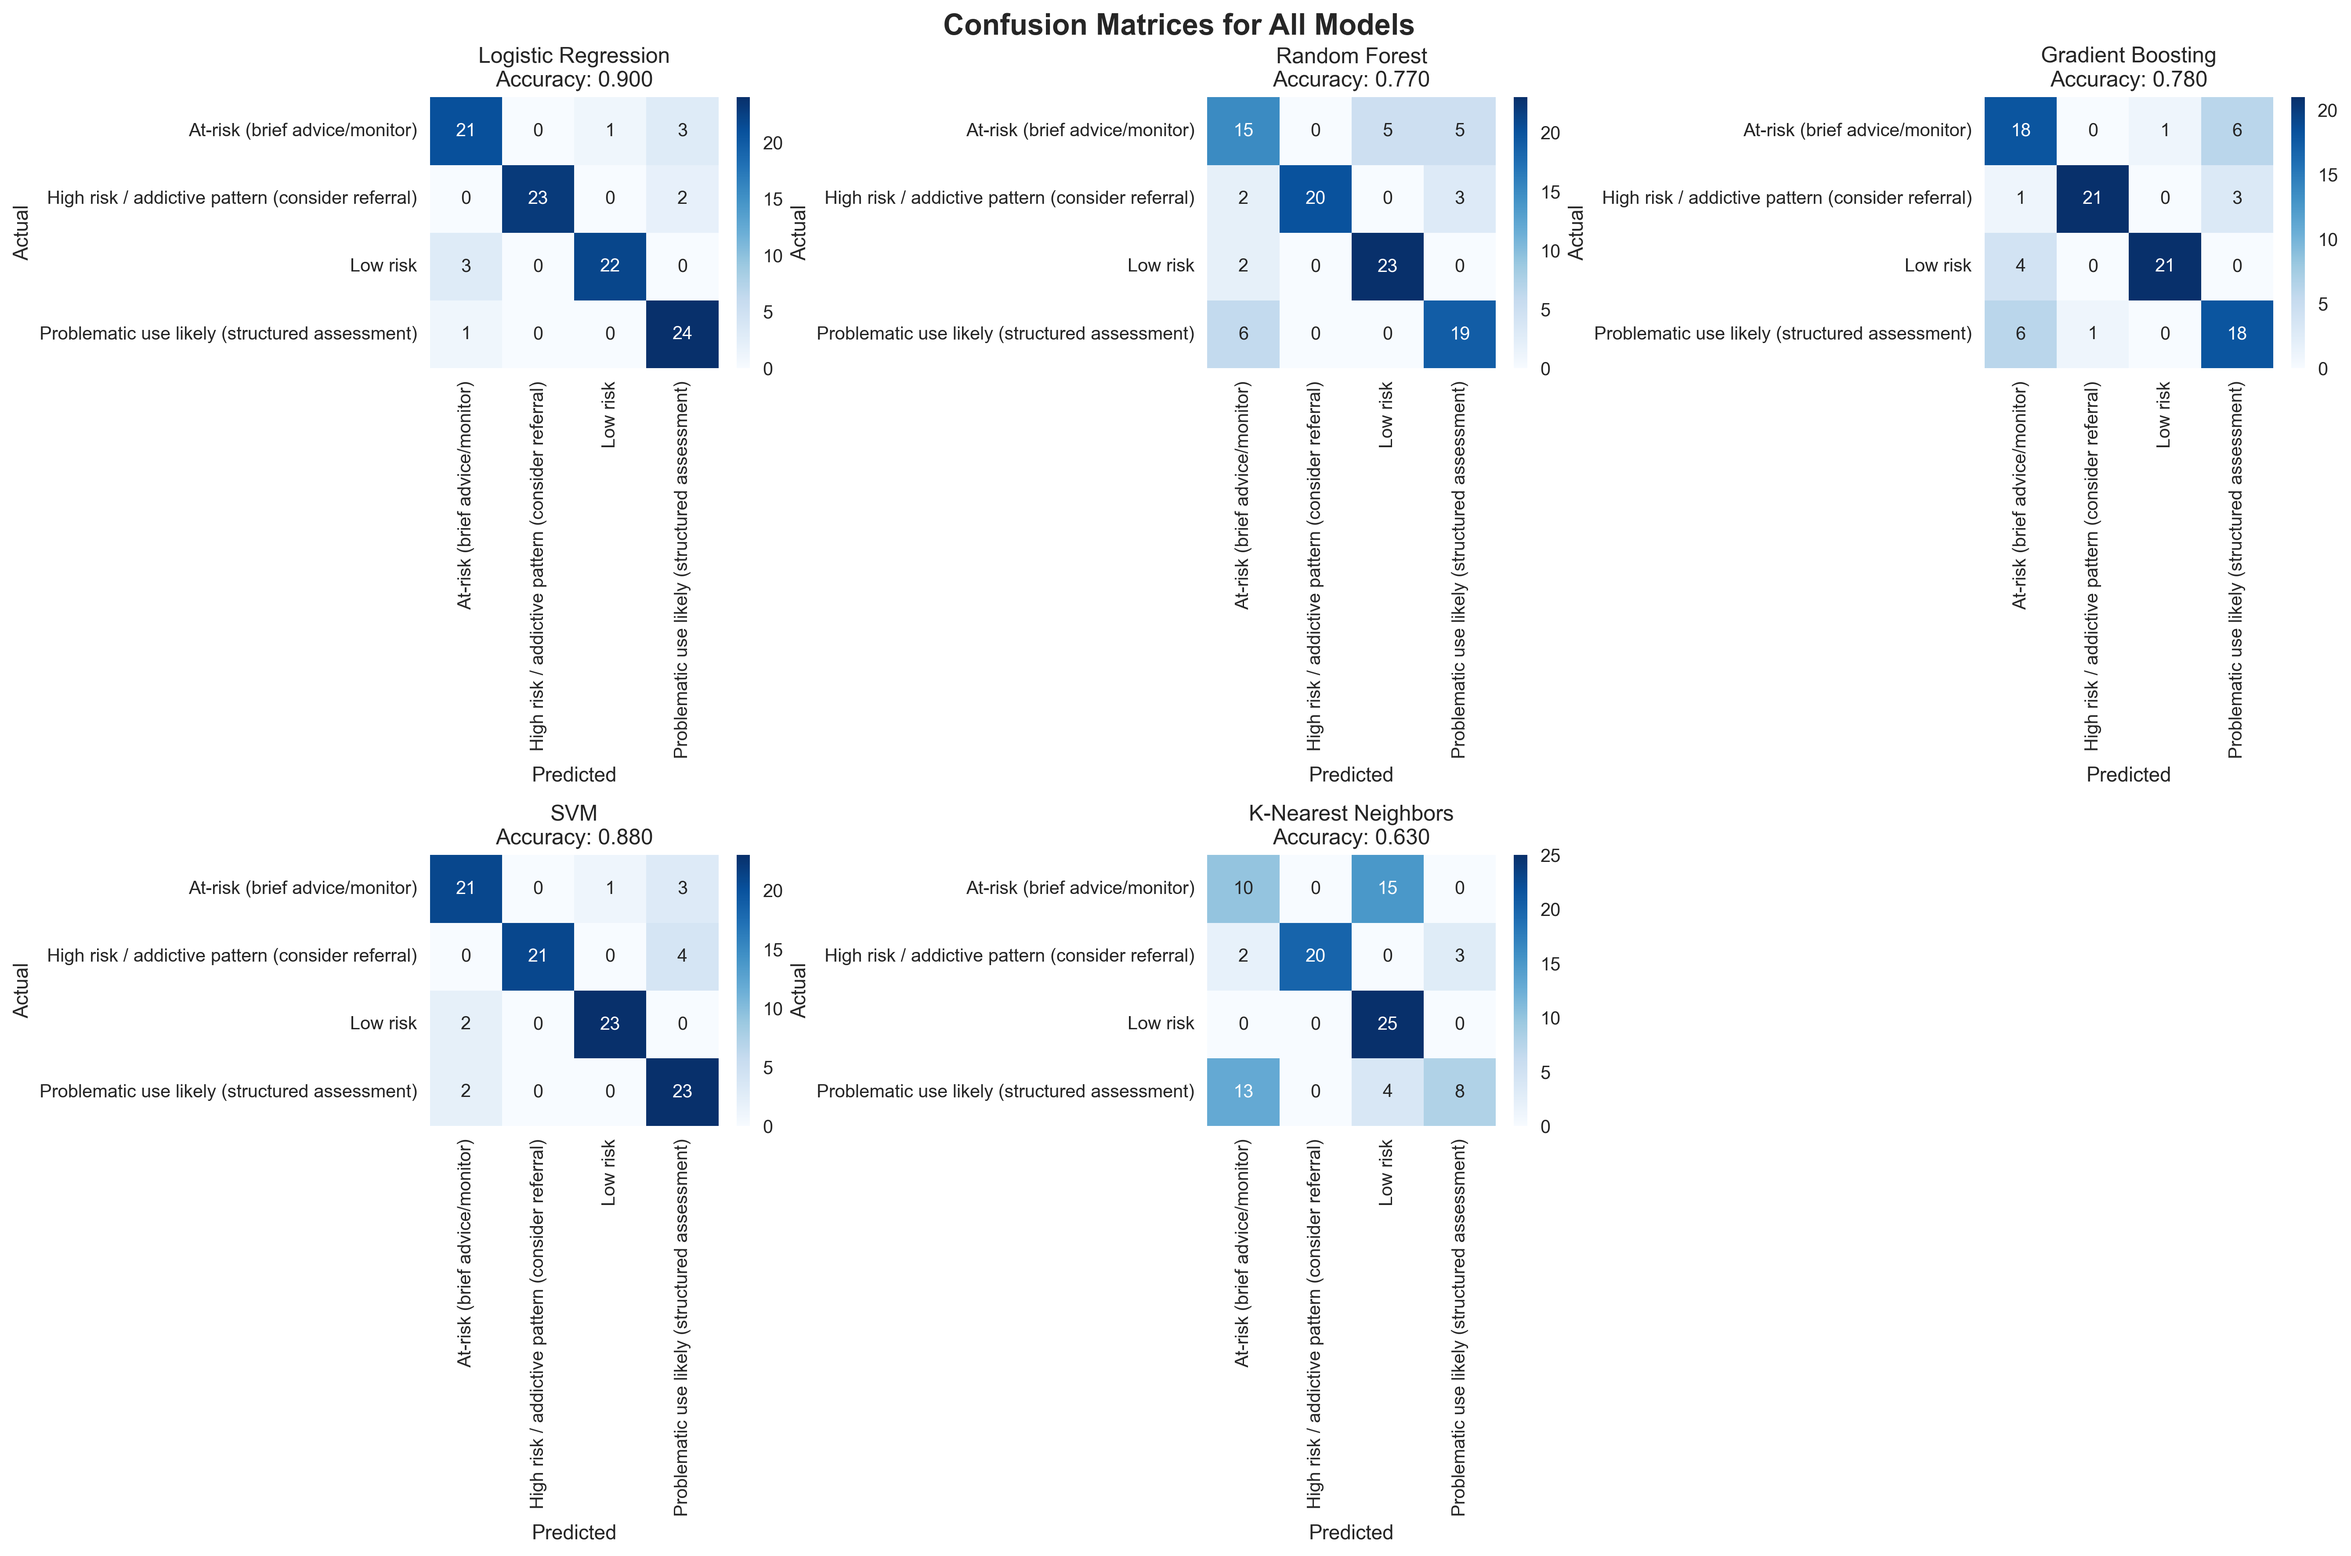
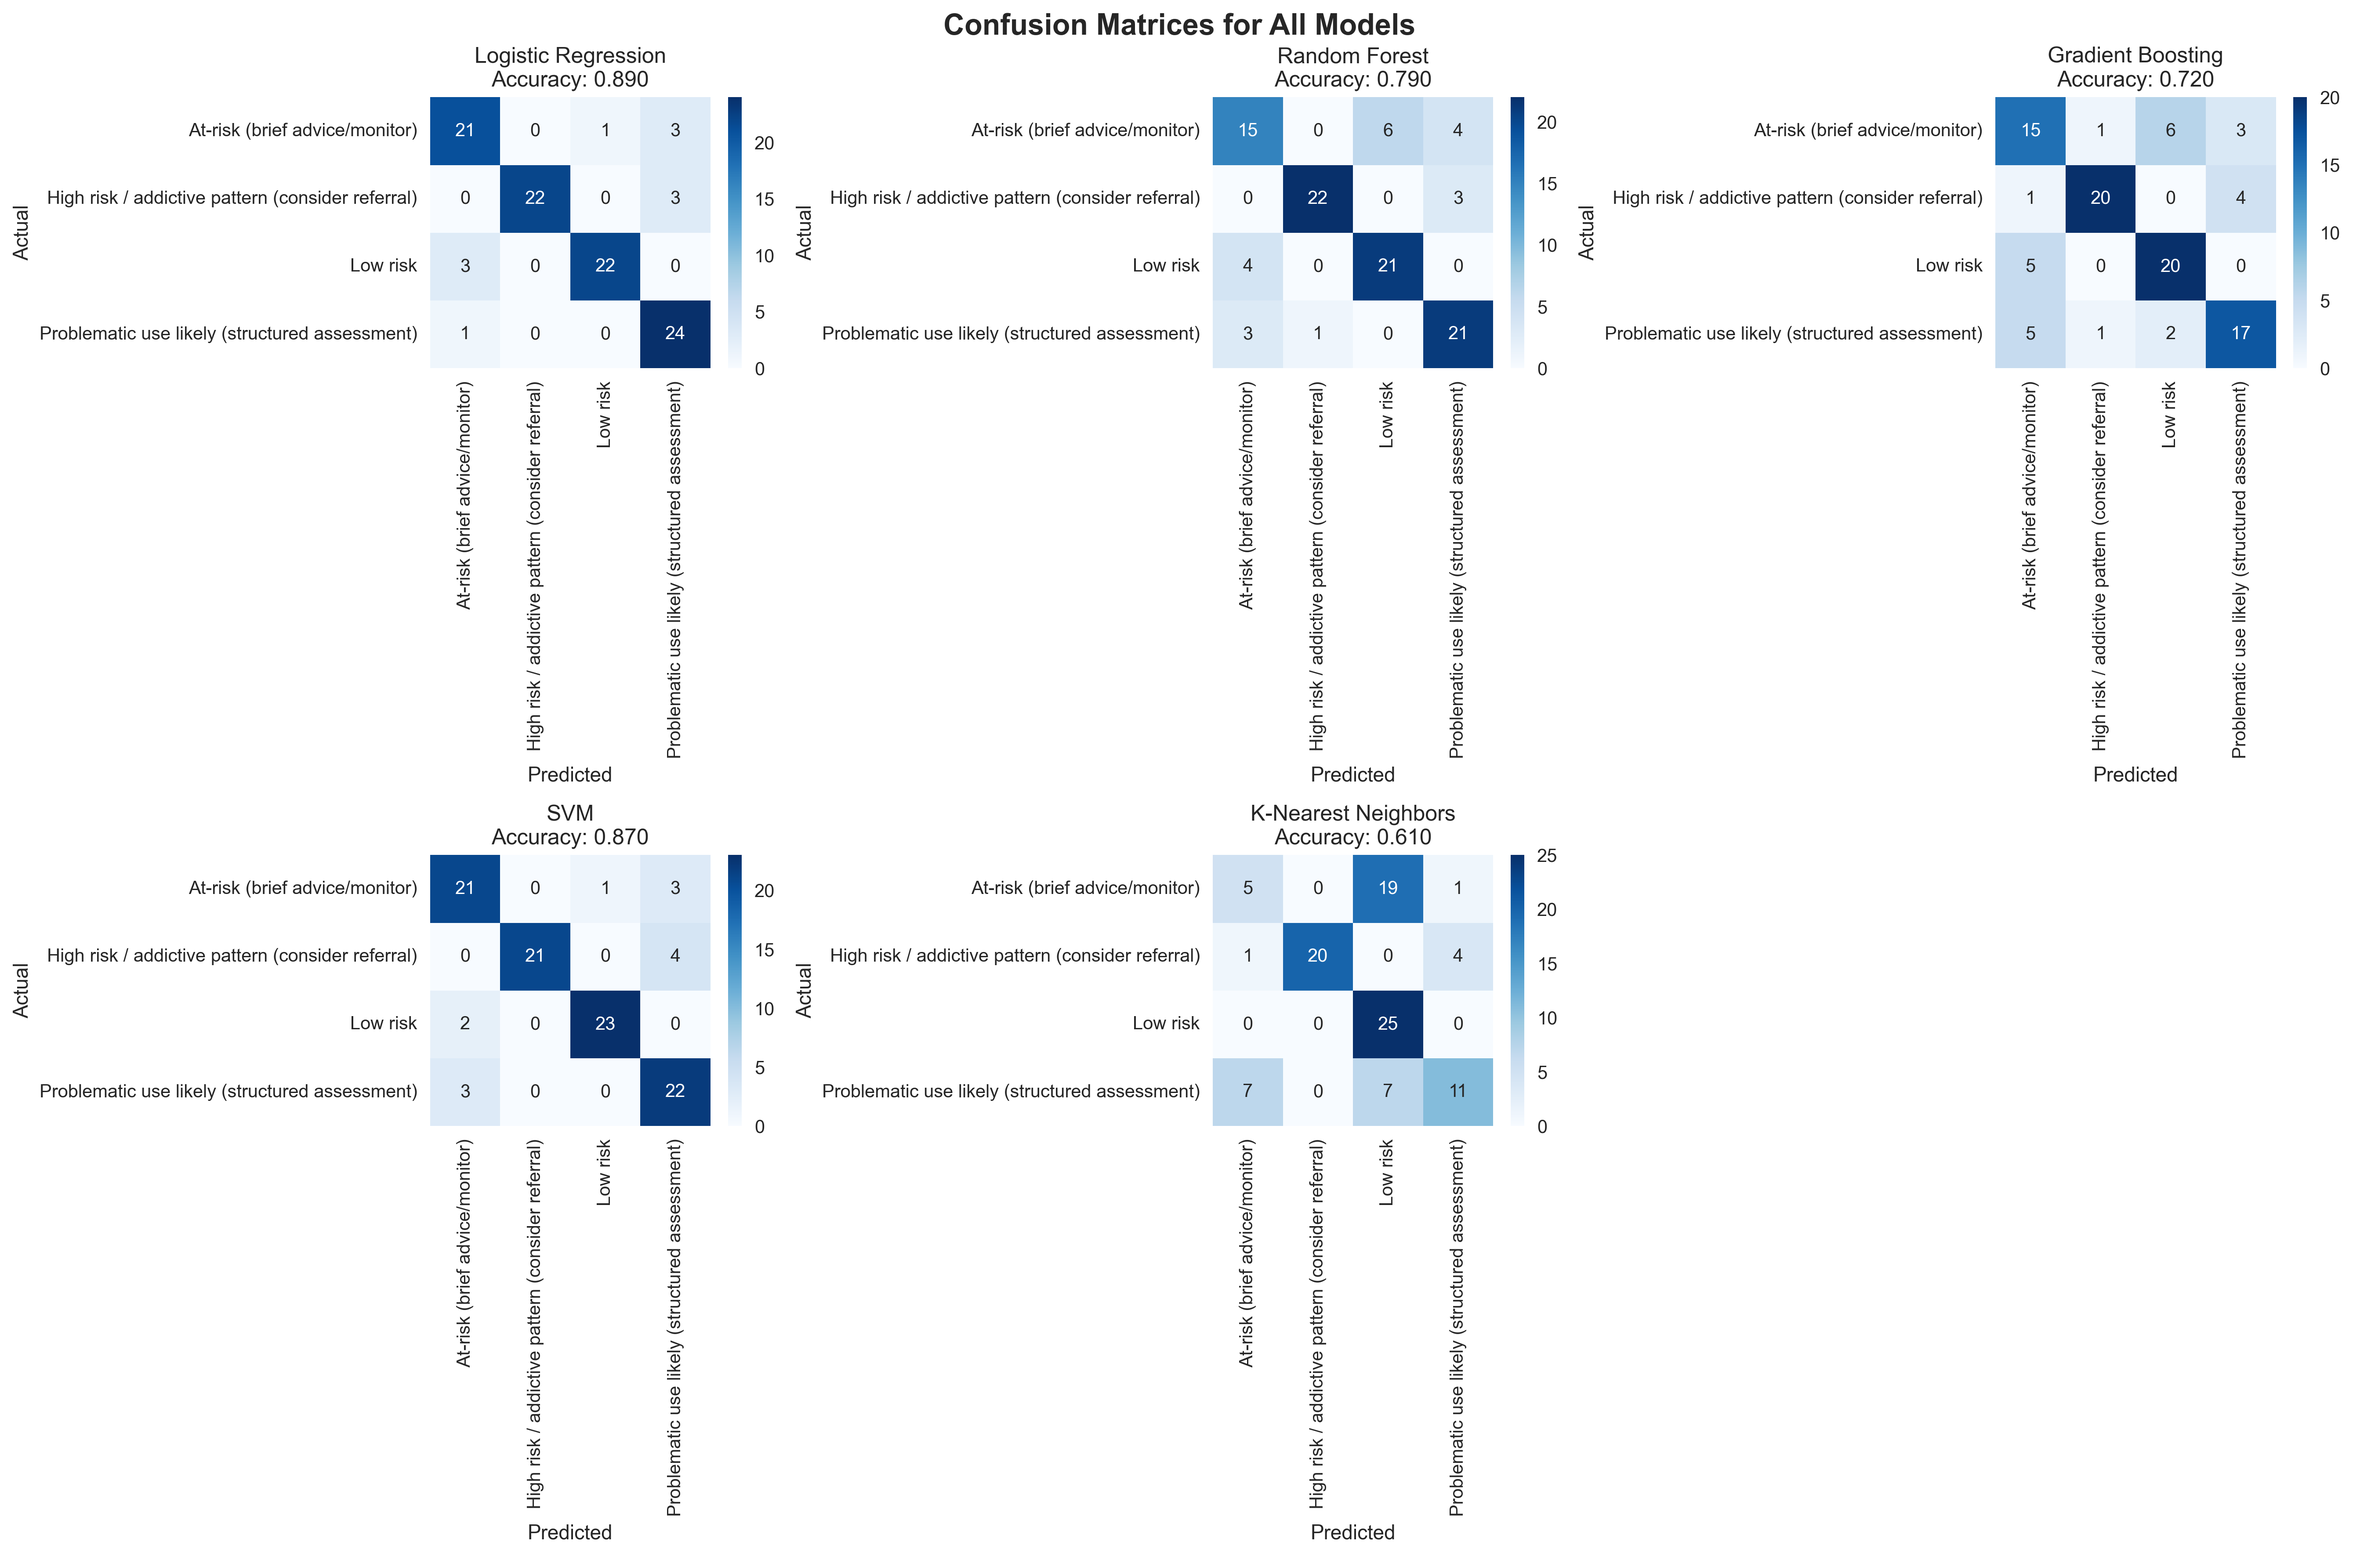
Fix ML model bias and retrain with improved accuracy
- Fixed data preprocessing issues in ml_training.py
- Removed biased model artifacts and retrained with all 22 features
- Added class balancing and better hyperparameters
- Improved model accuracy from biased predictions to 89% accuracy
- Updated Dockerfile to include model training during build
- Added cross-validation and comprehensive model evaluation
- Generated new model artifacts, reports, and visualizations
- Model now provides realistic risk assessments across all categories

diff --git a/ml_model/ml_training.py b/ml_model/ml_training.py
@@ -44,9 +44,9 @@ class MLModelTrainer:
         print(f"Risk Level Distribution:")
         print(self.df['risk_level'].value_counts())
         
-        # Exclude specified columns
-        exclude_columns = ['Q1', 'Q4', 'total_score', 'record_id']
-        feature_columns = [col for col in self.df.columns if col not in exclude_columns and col != 'risk_level']
+        # Exclude only non-feature columns (keep all questionnaire responses)
+        exclude_columns = ['total_score', 'record_id', 'risk_level']
+        feature_columns = [col for col in self.df.columns if col not in exclude_columns]
         
         print(f"\nExcluded columns: {exclude_columns}")
         print(f"Feature columns ({len(feature_columns)}): {feature_columns}")
@@ -60,6 +60,22 @@ class MLModelTrainer:
         if self.X.isnull().sum().sum() > 0:
             self.X = self.X.fillna(self.X.median())
             print("Filled missing values with median")
+        
+        # Data validation and feature engineering
+        print(f"\nFeature statistics:")
+        print(f"Q1 (Age) range: {self.X['Q1'].min()} - {self.X['Q1'].max()}")
+        print(f"Q2-Q22 score ranges:")
+        for col in self.X.columns[1:]:  # Skip Q1 (age)
+            print(f"  {col}: {self.X[col].min()} - {self.X[col].max()}")
+        
+        # Ensure all features are numeric
+        for col in self.X.columns:
+            if not pd.api.types.is_numeric_dtype(self.X[col]):
+                print(f"Converting {col} to numeric")
+                self.X[col] = pd.to_numeric(self.X[col], errors='coerce')
+        
+        # Handle any remaining non-numeric values
+        self.X = self.X.fillna(0)
         
         # Encode categorical target variable
         self.y_encoded = self.label_encoder.fit_transform(self.y)
@@ -87,13 +103,39 @@ class MLModelTrainer:
         """Train multiple ML models"""
         print("\nTraining ML models...")
         
-        # Define models
+        # Define models with better hyperparameters and class balancing
         self.models = {
-            'Logistic Regression': LogisticRegression(random_state=42, max_iter=1000),
-            'Random Forest': RandomForestClassifier(random_state=42, n_estimators=100),
-            'Gradient Boosting': GradientBoostingClassifier(random_state=42),
-            'SVM': SVC(random_state=42, probability=True),
-            'K-Nearest Neighbors': KNeighborsClassifier(n_neighbors=5)
+            'Logistic Regression': LogisticRegression(
+                random_state=42, 
+                max_iter=1000, 
+                class_weight='balanced',
+                C=1.0
+            ),
+            'Random Forest': RandomForestClassifier(
+                random_state=42, 
+                n_estimators=200,
+                max_depth=10,
+                min_samples_split=5,
+                min_samples_leaf=2,
+                class_weight='balanced'
+            ),
+            'Gradient Boosting': GradientBoostingClassifier(
+                random_state=42,
+                n_estimators=200,
+                learning_rate=0.1,
+                max_depth=6
+            ),
+            'SVM': SVC(
+                random_state=42, 
+                probability=True,
+                class_weight='balanced',
+                C=1.0,
+                kernel='rbf'
+            ),
+            'K-Nearest Neighbors': KNeighborsClassifier(
+                n_neighbors=7,
+                weights='distance'
+            )
         }
         
         # Train each model
@@ -114,25 +156,38 @@ class MLModelTrainer:
             accuracy = accuracy_score(self.y_test, y_pred)
             f1 = f1_score(self.y_test, y_pred, average='weighted')
             
+            # Cross-validation for more robust evaluation
+            if name in ['Logistic Regression', 'SVM', 'K-Nearest Neighbors']:
+                cv_scores = cross_val_score(model, self.X_train_scaled, self.y_train, cv=5, scoring='accuracy')
+            else:
+                cv_scores = cross_val_score(model, self.X_train, self.y_train, cv=5, scoring='accuracy')
+            
+            cv_mean = cv_scores.mean()
+            cv_std = cv_scores.std()
+            
             # Store results
             self.results[name] = {
                 'model': model,
                 'accuracy': accuracy,
                 'f1_score': f1,
+                'cv_mean': cv_mean,
+                'cv_std': cv_std,
                 'predictions': y_pred,
                 'probabilities': y_pred_proba
             }
             
-            print(f"  Accuracy: {accuracy:.4f}")
-            print(f"  F1-Score: {f1:.4f}")
+            print(f"  Test Accuracy: {accuracy:.4f}")
+            print(f"  Test F1-Score: {f1:.4f}")
+            print(f"  CV Accuracy: {cv_mean:.4f} (+/- {cv_std*2:.4f})")
         
-        # Find best model
-        best_accuracy = max(self.results.items(), key=lambda x: x[1]['accuracy'])
-        self.best_model_name = best_accuracy[0]
-        self.best_model = best_accuracy[1]['model']
+        # Find best model based on cross-validation score (more robust)
+        best_cv_score = max(self.results.items(), key=lambda x: x[1]['cv_mean'])
+        self.best_model_name = best_cv_score[0]
+        self.best_model = best_cv_score[1]['model']
         
         print(f"\nBest Model: {self.best_model_name}")
-        print(f"Best Accuracy: {best_accuracy[1]['accuracy']:.4f}")
+        print(f"Best CV Accuracy: {best_cv_score[1]['cv_mean']:.4f} (+/- {best_cv_score[1]['cv_std']*2:.4f})")
+        print(f"Test Accuracy: {best_cv_score[1]['accuracy']:.4f}")
         
         return self.results
     
@@ -299,8 +354,12 @@ class MLModelTrainer:
             'best_model_name': self.best_model_name,
             'accuracy': self.results[self.best_model_name]['accuracy'],
             'f1_score': self.results[self.best_model_name]['f1_score'],
+            'cv_mean': self.results[self.best_model_name]['cv_mean'],
+            'cv_std': self.results[self.best_model_name]['cv_std'],
             'feature_columns': self.X.columns.tolist(),
-            'target_classes': self.label_encoder.classes_.tolist()
+            'target_classes': self.label_encoder.classes_.tolist(),
+            'n_features': len(self.X.columns),
+            'n_samples': len(self.X)
         }
         joblib.dump(model_info, os.path.join(artifacts_dir, 'model_info.pkl'))
         
@@ -324,18 +383,19 @@ class MLModelTrainer:
 
 ## Model Performance Summary
 
-| Model | Accuracy | F1-Score |
-|-------|----------|----------|
+| Model | Test Accuracy | Test F1-Score | CV Accuracy | CV Std |
+|-------|---------------|---------------|-------------|---------|
 """
         
         for name, result in self.results.items():
-            report += f"| {name} | {result['accuracy']:.4f} | {result['f1_score']:.4f} |\n"
+            report += f"| {name} | {result['accuracy']:.4f} | {result['f1_score']:.4f} | {result['cv_mean']:.4f} | {result['cv_std']:.4f} |\n"
         
         report += f"""
 ## Best Model
 - **Model**: {self.best_model_name}
-- **Accuracy**: {self.results[self.best_model_name]['accuracy']:.4f}
-- **F1-Score**: {self.results[self.best_model_name]['f1_score']:.4f}
+- **Test Accuracy**: {self.results[self.best_model_name]['accuracy']:.4f}
+- **Test F1-Score**: {self.results[self.best_model_name]['f1_score']:.4f}
+- **CV Accuracy**: {self.results[self.best_model_name]['cv_mean']:.4f} (+/- {self.results[self.best_model_name]['cv_std']*2:.4f})
 
 ## Detailed Classification Report for Best Model
 """

diff --git a/ml_model/ml_predictor.py b/ml_model/ml_predictor.py
@@ -264,9 +264,9 @@ if __name__ == "__main__":
     try:
         predictor = MLPredictor()
         
-        # Test with sample data
+        # Test with sample data (all numeric values)
         sample_data = {
-            'Q1': 25, 'Q2': 1, 'Q3': 2, 'Q4': 'Student', 'Q5': 0, 'Q6': 1,
+            'Q1': 25, 'Q2': 1, 'Q3': 2, 'Q4': 0, 'Q5': 0, 'Q6': 1,
             'Q7': 2, 'Q8': 3, 'Q9': 2, 'Q10': 1, 'Q11': 1, 'Q12': 1,
             'Q13': 1, 'Q14': 1, 'Q15': 1, 'Q16': 2, 'Q17': 1, 'Q18': 1,
             'Q19': 1, 'Q20': 1, 'Q21': 1, 'Q22': 1
